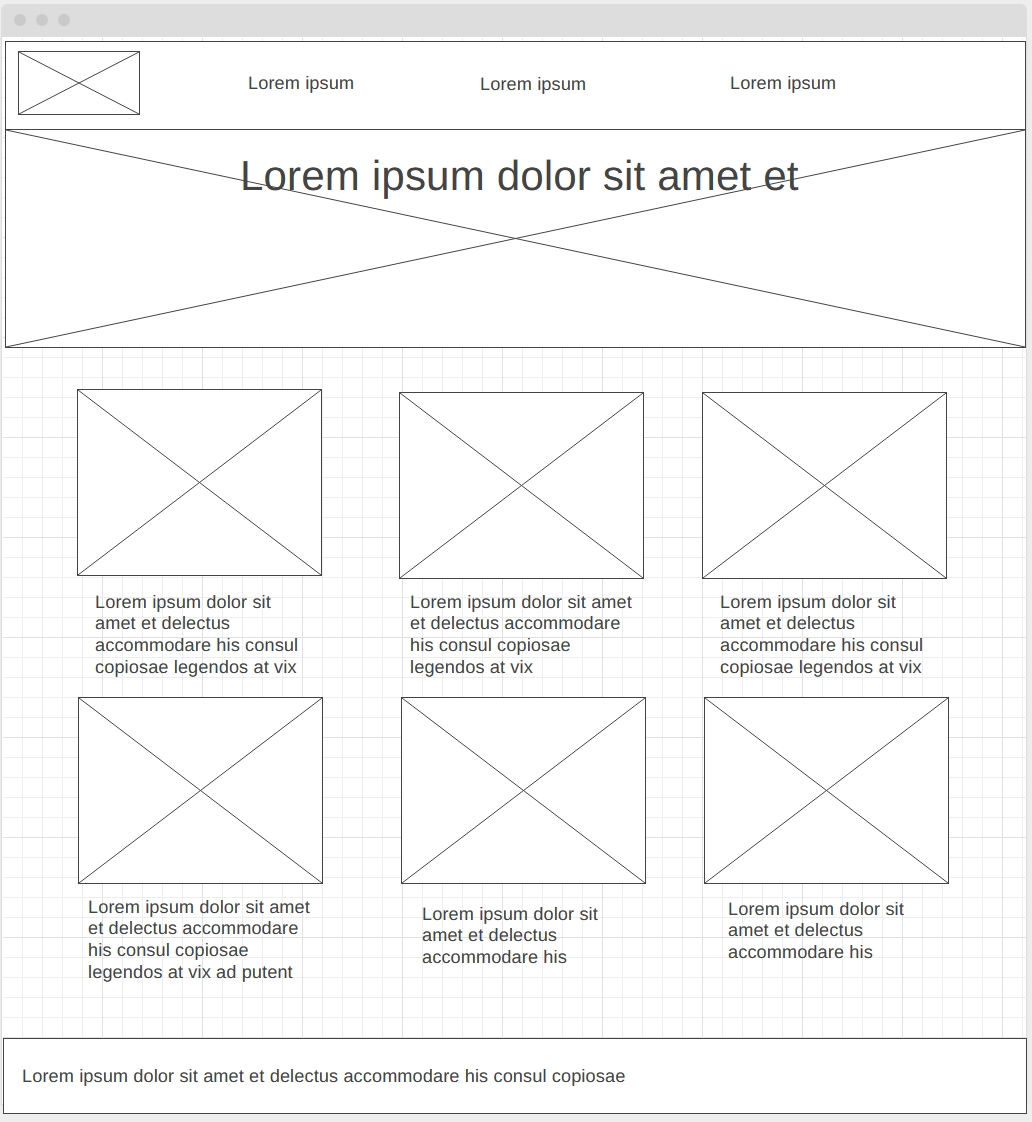
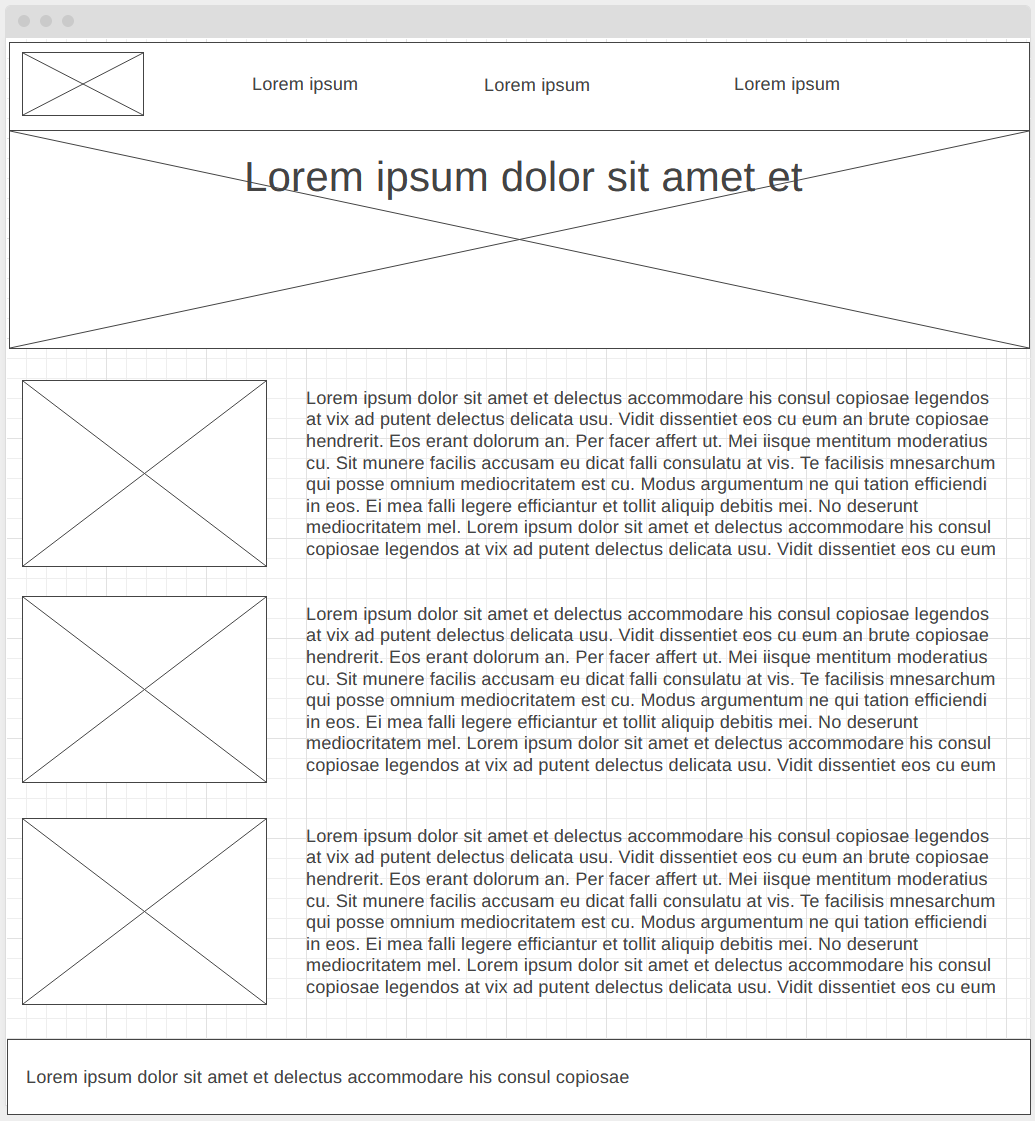
Fixed

diff --git a/Personal/site-plan.html b/Personal/site-plan.html
@@ -214,7 +214,7 @@
 
       <h3>Activities</h3>
       <p>         
-        Activities page will display images for each group and allow the ability to put comments below each item.
+        Activities page will display images for each group and allow the ability to put comments next to each item.
       </p>
       <img src="images/Page 2.PNG" alt="page 2 wireframe">
 
